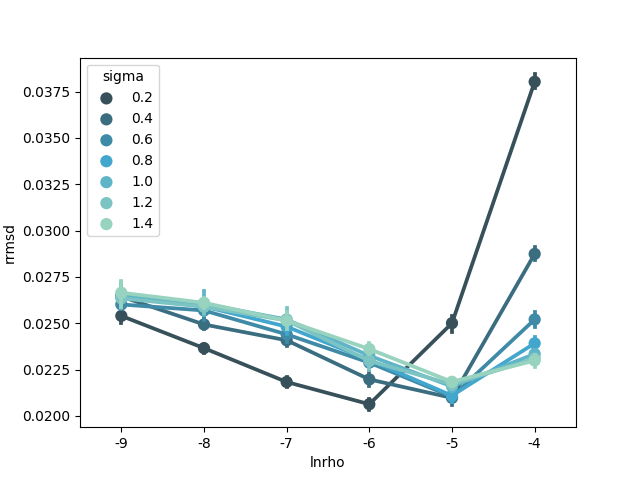
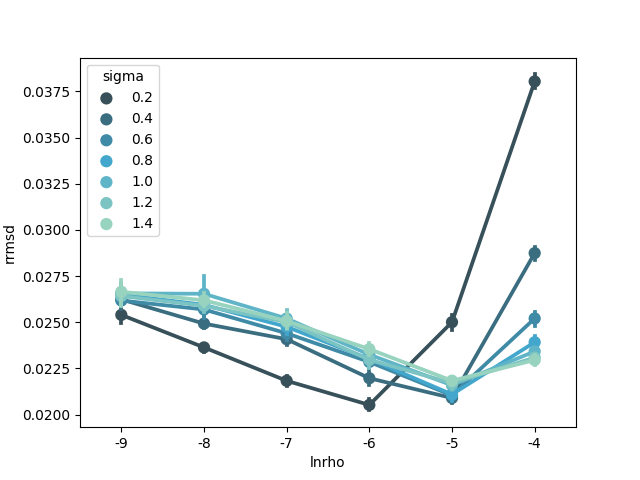
pictures

diff --git a/plot_crawl.py b/plot_crawl.py
@@ -32,8 +32,10 @@ print(df)
 print('Plotting ...')
 p = sns.pointplot(data=df_0, x='lnrho', y='rrmsd', hue='sigma', palette='GnBu_d')
 p.figure.savefig('0_lnrho_vs_rrmsd.png')
+plt.clf()
 p = sns.pointplot(data=df_1, x='lnrho', y='rrmsd', hue='sigma', palette='GnBu_d')
 p.figure.savefig('1_lnrho_vs_rrmsd.png')
+plt.clf()
 p = sns.pointplot(data=df_2, x='lnrho', y='rrmsd', hue='sigma', palette='GnBu_d')
 p.figure.savefig('2_lnrho_vs_rrmsd.png')
 print('Done.')
